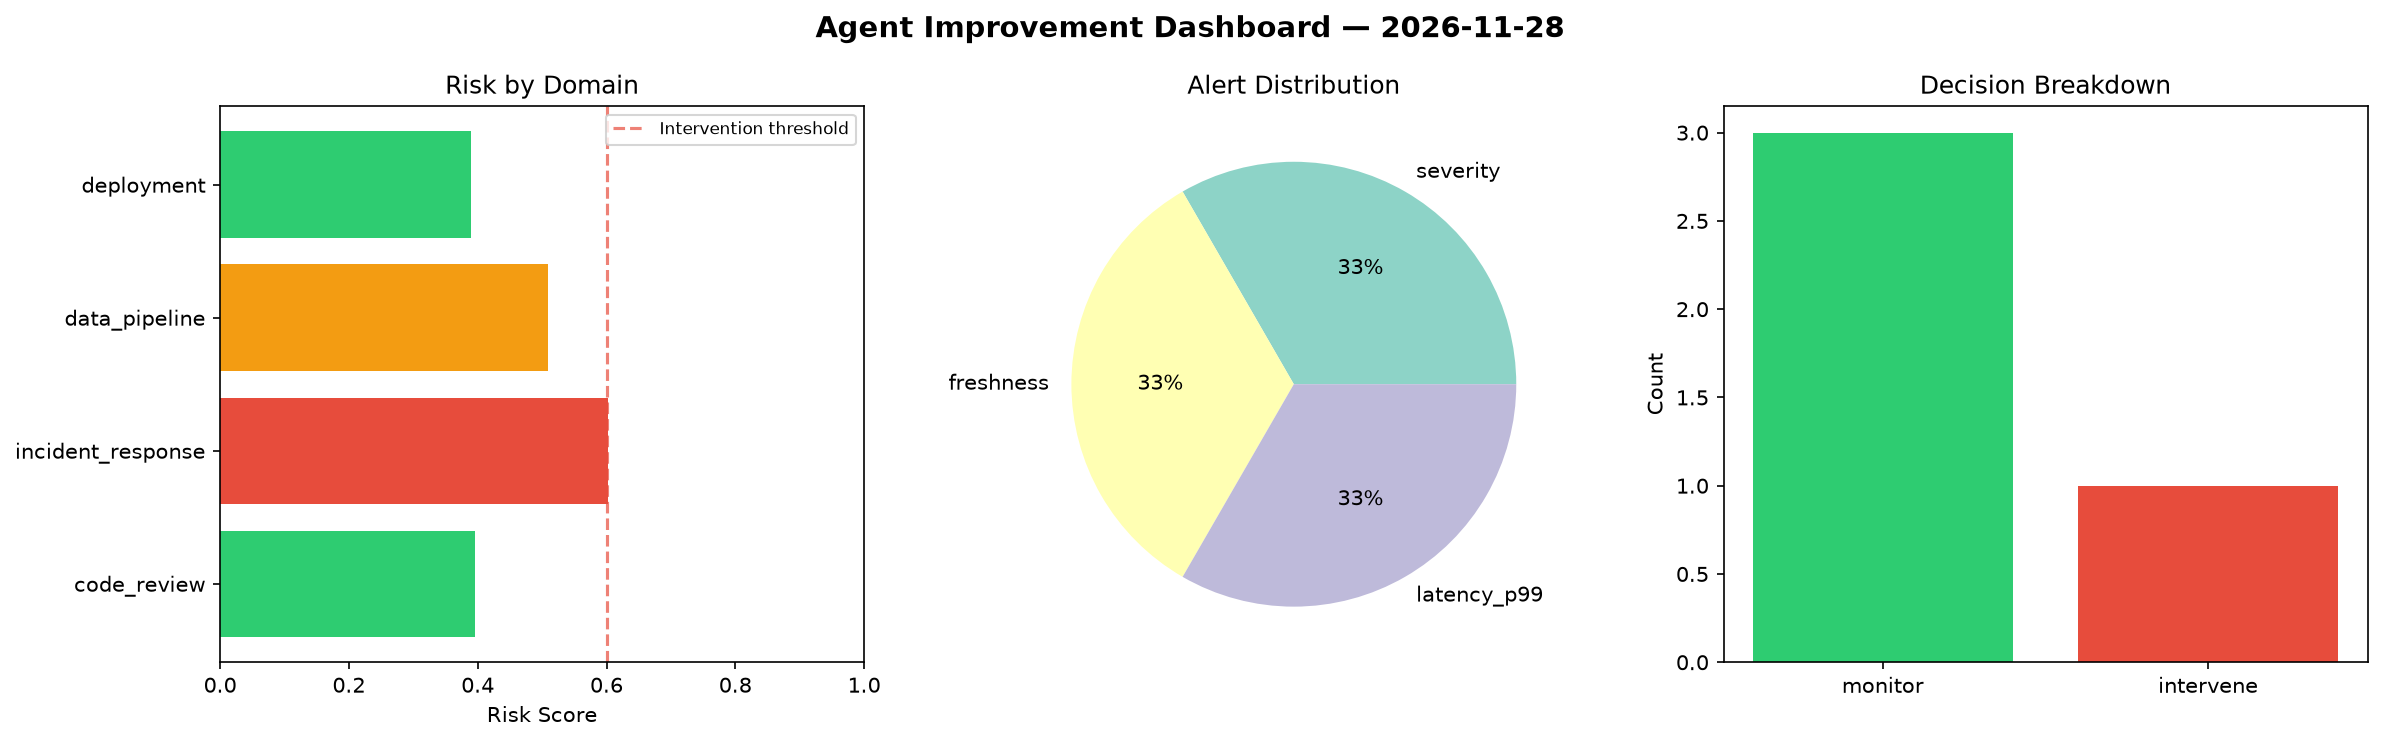
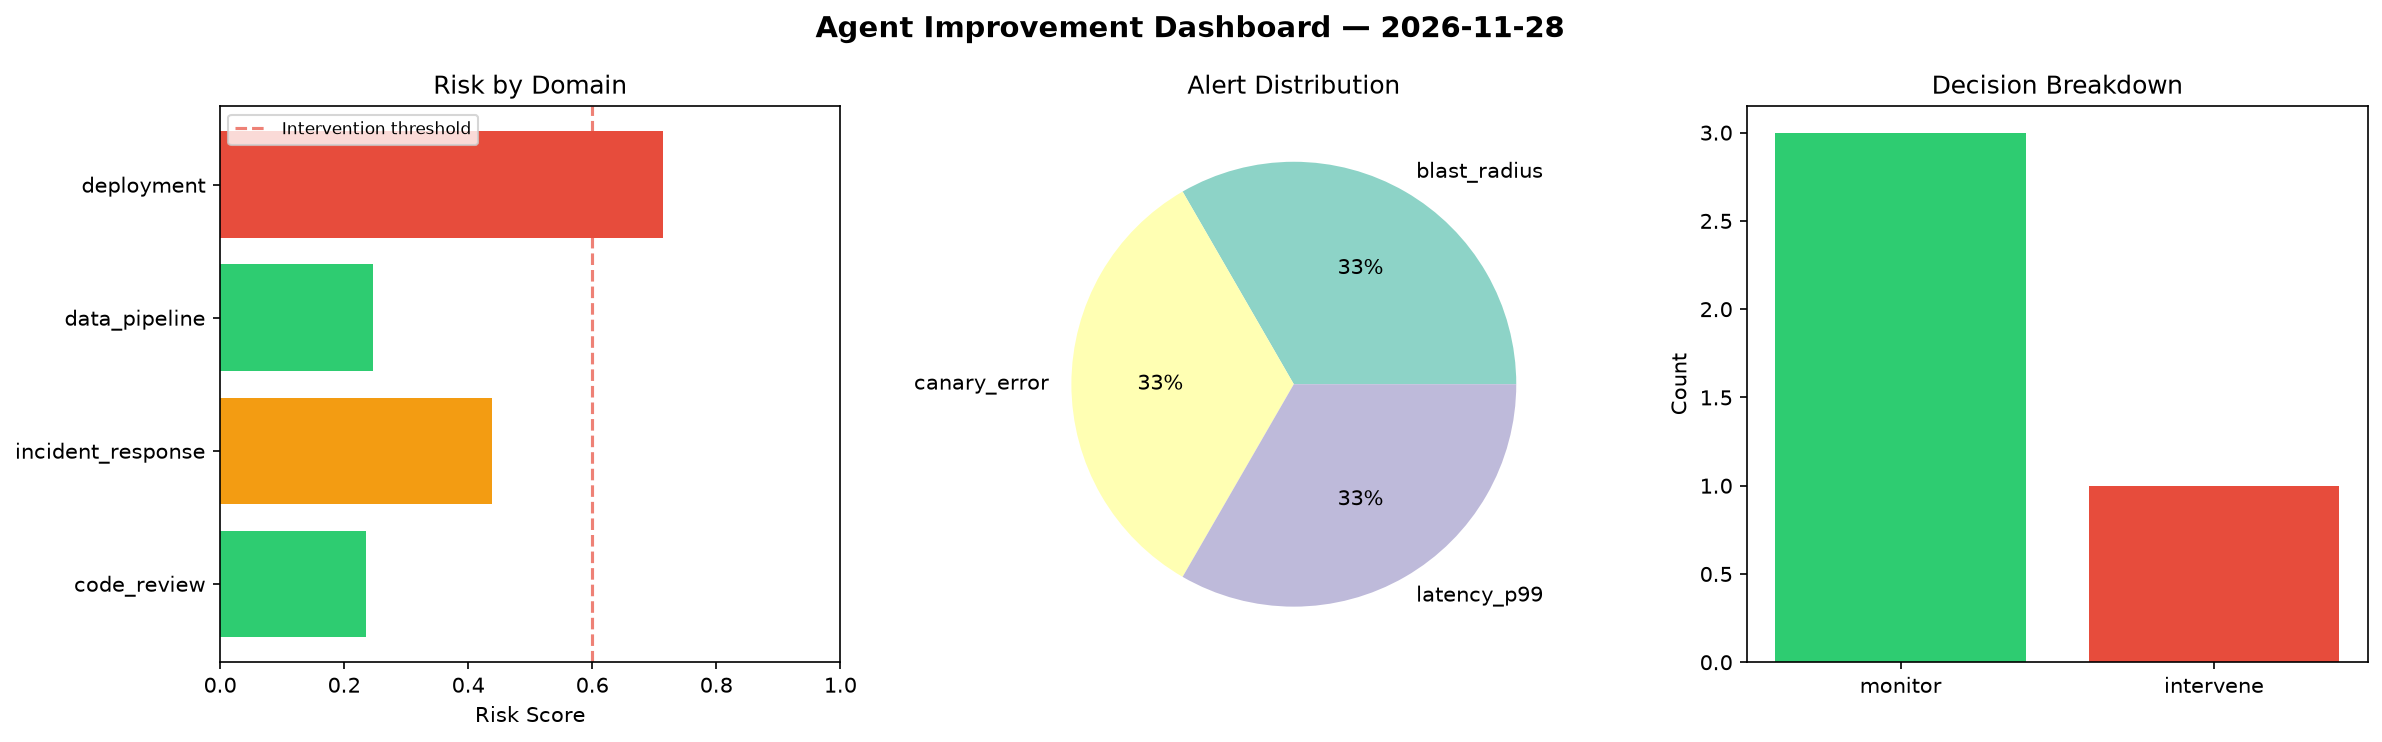
agent-improvement: daily cycle 2026-11-28T10:20

diff --git a/logs/2026-11-28.md b/logs/2026-11-28.md
@@ -1,6 +1,6 @@
 # Agent Improvement Report — 2026-11-28
 
-**Cycle ID:** `de566227` | **Avg Risk:** 0.4738 | **Interventions:** 1/4
+**Cycle ID:** `4063bd6f` | **Avg Risk:** 0.4085 | **Interventions:** 1/4
 
 ![Dashboard](2026-11-28_dashboard.png)
 
@@ -10,18 +10,18 @@
 
 | Domain | Risk Score | Decision | Alerts |
 |--------|-----------|----------|--------|
-| code_review | 0.395 | monitor | none |
-| incident_response | 0.6017 | intervene | severity |
-| data_pipeline | 0.5086 | monitor | freshness |
-| deployment | 0.3901 | monitor | latency_p99 |
+| code_review | 0.2346 | monitor | none |
+| incident_response | 0.4388 | monitor | blast_radius |
+| data_pipeline | 0.2462 | monitor | none |
+| deployment | 0.7144 | intervene | canary_error, latency_p99 |
 
 ## Delta vs Yesterday
 
 | Domain | Today | Yesterday | Change |
 |--------|-------|-----------|--------|
-| code_review | 0.395 | 0.4377 | 📉 -9.8% |
-| incident_response | 0.6017 | 0.6176 | 📉 -2.6% |
-| data_pipeline | 0.5086 | 0.4126 | 📈 23.3% |
-| deployment | 0.3901 | 0.5285 | 📉 -26.2% |
+| code_review | 0.2346 | 0.4377 | 📉 -46.4% |
+| incident_response | 0.4388 | 0.6176 | 📉 -29.0% |
+| data_pipeline | 0.2462 | 0.4126 | 📉 -40.3% |
+| deployment | 0.7144 | 0.5285 | 📈 35.2% |
 
-**Refinement:** `{'adjustment': 'maintain', 'trend': 'improving', 'window': 4}`
+**Refinement:** `{'adjustment': 'tighten_thresholds', 'trend': 'degrading', 'window': 4}`
